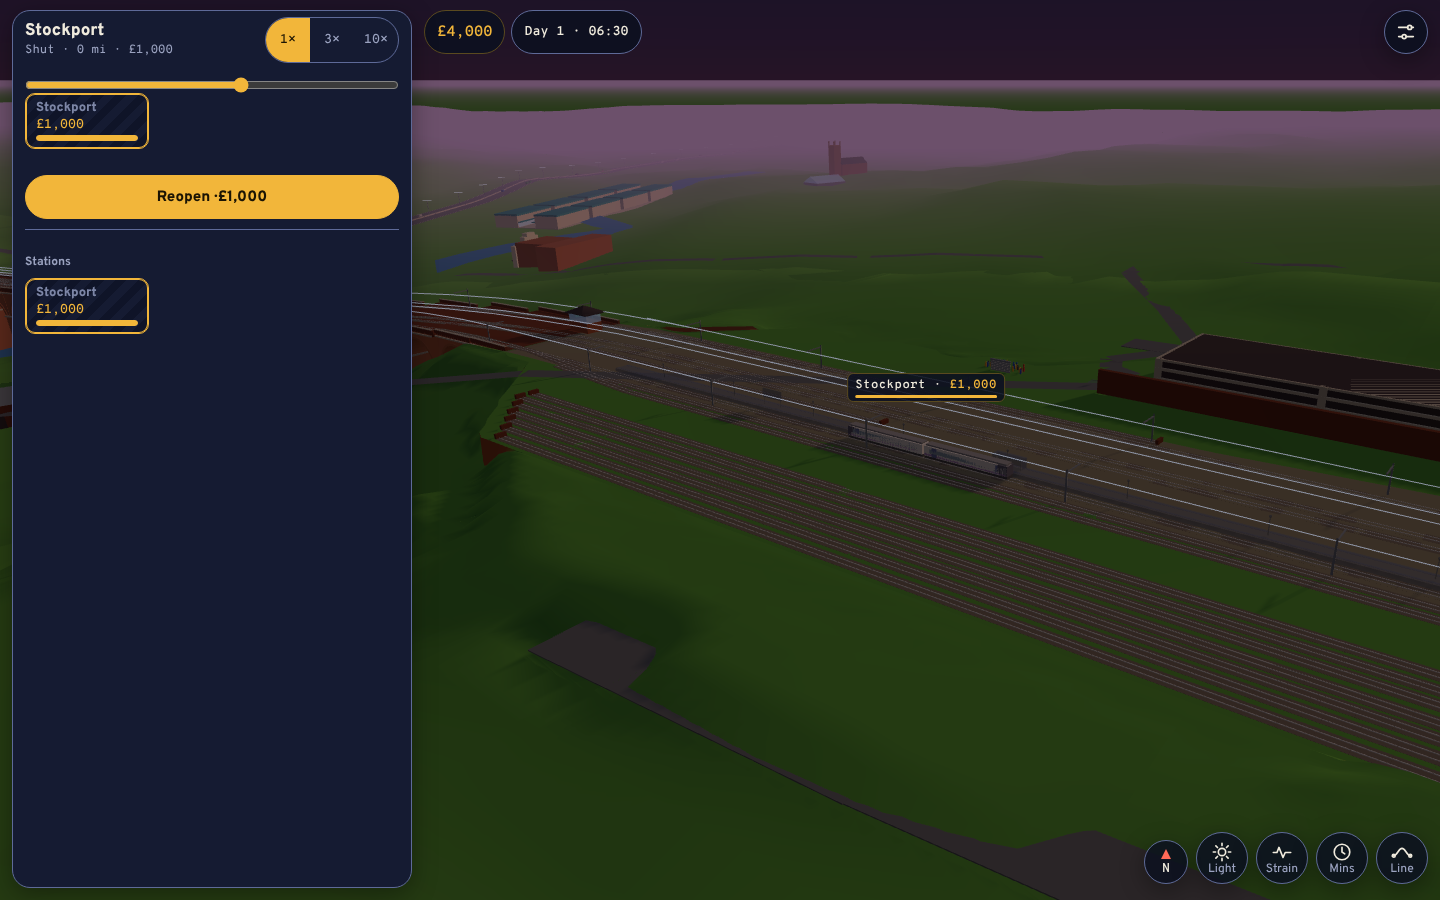
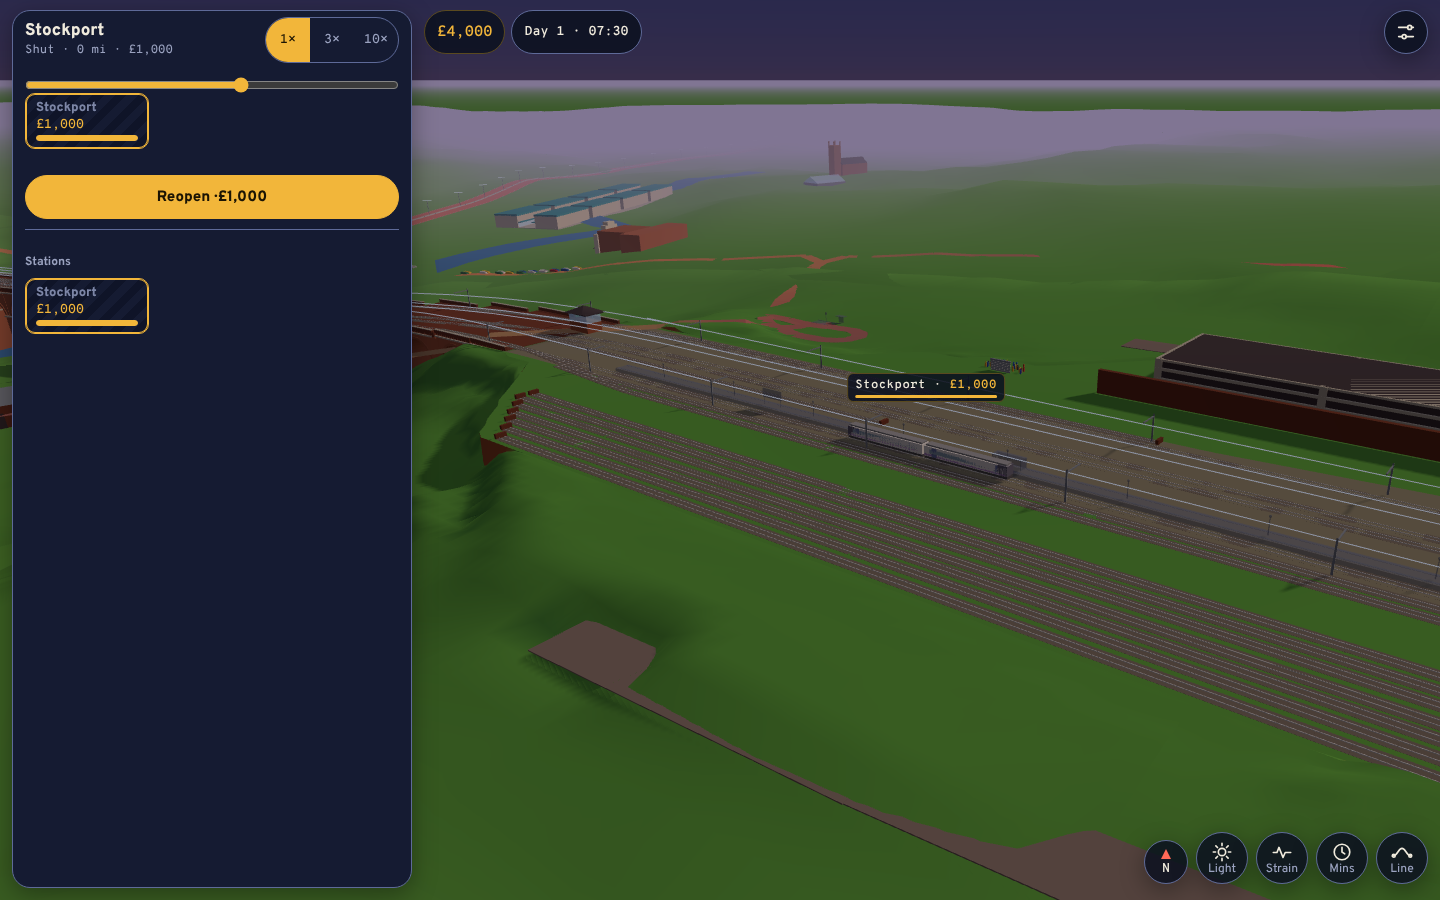
Open the first game at 07:30, in the jam
The coordinator, for the owner: at the old 06:30 start every road was
under capacity with nothing open (the A6 at 0.66), so the opening showed
moving traffic. Of the two ways offered, the start hour moving to 07:30
changes the game less than raising the roads' loads while Stockport is
shut: it is one number in the start's data, and the jam still follows
from what's open. At 07:30 the A6 at Mersey Square stands at 1.10 of its
capacity and the M60 at 1.24.

At the peak the gathered crowd is bigger, so its window comes down from
20 clock minutes to 8 (about 18 people): from 12 the first load pays for
Platform 3 at once and the second unit falls below its range. Sim.halt
stays at 06:30, the opening tests and checks start from. A test holds
the start's roads past capacity. Handed on in the brief; G4 not started.

Bot, seeds 1-3, 51d87be (before Stockport started shut) -> this. Every
range holds.

8 h:
PLAY 49758878, 32fcf737, e0d9f18d -> f4704e52, a344caf3, 99a25715
| measure | range | before (1, 2, 3) | after (1, 2, 3) | mean | band |
| --- | --- | --- | --- | --- | --- |
| first fare s | 0–40 | - | 1, 1, 1 | - -> 1 | ok |
| first buy | 0–0.05 | - | 0, 0, 0 | - -> 0 | ok |
| unit | 0.25–0.6 | 0.4, 0.4, 0.4 | 0.45, 0.45, 0.45 | 0.4 -> 0.5 | ok |
| owns:heaton-chapel | 0.5–1 | 0.57, 0.62, 0.62 | 0.6, 0.58, 0.57 | 0.6 -> 0.6 | ok |
| owns:levenshulme | 1.6–2.8 | 2.08, 2.1, 2.1 | 2.2, 2.2, 2.2 | 2.1 -> 2.2 | ok |
[…]

diff --git a/src/sim/sim.ts b/src/sim/sim.ts
@@ -30,9 +30,10 @@ export const TUNING = {
   dwell: 45, turnaround: 120, dwellMin: 30, turnMin: 60, overrun: 120,
   recoveryFast: 30,                            // the faster timetable keeps some of its saving as recovery at each end
   // a shut station reopening (docs/design/gridlock.md, section 1): the people who'd gathered outside it are those of
-  // its trips in the last `gather` clock minutes, at most gatherMax. Twenty minutes is about 26 at 06:30: the design's
-  // five were about 6, and from 25 the first load pays for Platform 3 at once and the whole opening comes 0.15 h sooner
-  gather: 20, gatherMax: 80,
+  // its trips in the last `gather` clock minutes, at most gatherMax. Eight minutes is about 18 at 07:30, the start: from
+  // twelve the first load pays for Platform 3 at once and the whole opening comes 0.2 h sooner, and five leave Heaton
+  // Chapel a tenth of an hour later on seed 1
+  gather: 8, gatherMax: 80,
   alight: 0.5,                                 // someone getting off takes half the door time of someone getting on
   squeeze: 1.0,                                // seconds a full train is held for each person left trying to get on
   dispatch: 15,                                // seconds from the platform clearing to leaving: doors shut, all clear
@@ -233,10 +234,12 @@ export class Sim {
     } as Omit<GameState, 'owned' | 'ups' | 'line'> as GameState, P);
   }
 
-  /** A new run with the start's offer already reopened and paid for (Stockport as a halt, £3,000): the opening before
-   * Stockport started shut, for tests and checks that start from there. It plays as that opening did: nothing is held. */
+  /** A new run with the start's offer already reopened and paid for (Stockport as a halt, £3,000) at 06:30 on day 1: the
+   * opening before Stockport started shut, for tests and checks that start from there. It plays as that opening did:
+   * nothing is held. */
   static halt(network: Network, seed: number = freshSeed(), perks: readonly string[] = [], start?: string): GameState {
     const g = Sim.fresh(network, seed, perks, start), P = places(network), from = P.startOf(g.start), fx = effects(network.def.contract, perks);
+    g.t = simAtHour(1, 6.5); g.day = 1; g.weather = freshWeather(seed, g.t);
     for (const id of from.offer) {
       const p = P.get(id), price = from.prices?.[id] ?? (p.kind === 'station' ? network.stations[p.station!]!.price : 0);
       g.places[id] = {}; g.cash -= fx.build ? Math.round(price * (1 - fx.build) / 10) * 10 : price;

diff --git a/test/start.test.ts b/test/start.test.ts
@@ -1,4 +1,5 @@
-// The start (docs/design/gridlock.md, sections 1, 4 and 7): a fresh game opens from the network data's first start,
+// The start (docs/design/gridlock.md, sections 1, 4 and 7): a fresh game opens from the network data's first start, at
+// 07:30 in the morning peak with the roads jammed,
 // Stockport shut: nothing owned, £4,000, Reopen Stockport the one thing offered at £1,000, the stopper standing dark
 // at platform 4 and the expresses running through. Reopening releases the stopper from there with the people who'd
 // gathered aboard, and from then on the game plays as the halt's opening did.
@@ -61,4 +62,13 @@ test('start: the same seed gives the same game, and a start named that the data 
 test('start: halt opens as the shut start reopened, cash and all', () => {
   const g = Sim.halt(net, 1);
   assert.equal(g.cash, 3000); assert.ok(g.owned[0]); assert.ok(!g.owned.slice(1).some(Boolean));
+});
+
+test('start: the first game opens in the morning peak with the roads past capacity, the jam following from nothing open', async () => {
+  const { traffic } = await import('../src/sim/traffic.ts');
+  const { TUNING } = await import('../src/sim/sim.ts');
+  const roads = JSON.parse(readFileSync(new URL('../src/data/traffic.json', import.meta.url), 'utf8'));
+  const sim = shut(), t = traffic(sim, TUNING, roads, sim.hour()), load = (id: string) => t.roads.find(r => r.id === id)!.load;
+  assert.ok(load('a6-mersey-square') > 1.05, `the A6 at Mersey Square at ${load('a6-mersey-square').toFixed(2)}`);
+  assert.ok(load('m60-j1-j2') > 1.1, `the M60 at ${load('m60-j1-j2').toFixed(2)}`);
 });

diff --git a/docs/design/gridlock.md b/docs/design/gridlock.md
@@ -203,7 +203,7 @@ Each needs only data: a start record and, for the bus start, the places step 12 
 Each part about one session, in order, each leaving `main` playable.
 
 1. **G1 · The car in the sim** (sim, data, bot, tests; nothing on screen). *Built 14 October 2026 (`docs/DESIGN.md`, The car): the stretches are in their own `src/data/traffic.json`, not the network data, so they load after the first frame; `traffic(sim, TUNING, data, hour)` takes them.* `src/sim/traffic.ts` (`wouldTravel`, `cars`, stretches, loads, queues, `traffic(sim)`, `trafficKey`); `traffic` stretches with their real counts and sources, `serves`, `through` and capacities; `carShare` and `carScale` in `TUNING`. Not read by `Sim.step`, so `PLAY` stays identical on seeds 1–3. The bot reports the new measures on today's opening (Stockport owned from the start), and the calibration lands the targets in §2. Tests: pure (two calls, same answer), a shut station's pairs all drive, reopening lowers the A6's load, queues grow past capacity and drain under it.
-2. **G2 · Stockport starts shut** (sim, data, save, bot, a little view). *Built 14 October 2026 (`docs/DESIGN.md`, The start): the gathered crowd is the last 20 clock minutes' trips, about 26, not five minutes' (about 6, too few to hold the opening's pace; from 25 minutes Platform 3 comes at once and everything 0.15 h sooner); the shutter part is `type: "shutter"`, standing while its station is shut, rather than `until: "open"`; lamps and the board stay as the fogged halt draws them; `Sim.halt` gives tests the old opening.* `starts` in the network data with the first game's record (§7), read by `Sim.fresh`: a fresh game owns nothing, £4,000; the start's `offer` (Stockport, £1,000); the stopper held at platform 4 until it's reopened, its day 1 timetable from then; the gathered crowd on reopening; `SAVE_VERSION` up. The bot reopens first; its run on seeds 1–3 against `main`, a table in the commit message, baselines re-proposed only if a range breaks. View: Reopen on a station's card and button; Stockport's shutter part (`until: "open"`), lamps and board off, the forecourt crowd; checks `preview`, `places` and the opening's screenshots updated.
+2. **G2 · Stockport starts shut** (sim, data, save, bot, a little view). *Built 14 October 2026 (`docs/DESIGN.md`, The start): the first game starts at 07:30, not 06:30, so the opening is jammed from the first frame (with nothing open the A6 is at 0.66 at 06:30, 1.10 at 07:30, the M60 1.24); the gathered crowd is the last 8 clock minutes' trips, about 18 (from 12 minutes Platform 3 comes at once and everything 0.2 h sooner); the shutter part is `type: "shutter"`, standing while its station is shut, rather than `until: "open"`; lamps and the board stay as the fogged halt draws them; `Sim.halt` gives tests the old 06:30 opening.* `starts` in the network data with the first game's record (§7), read by `Sim.fresh`: a fresh game owns nothing, £4,000; the start's `offer` (Stockport, £1,000); the stopper held at platform 4 until it's reopened, its day 1 timetable from then; the gathered crowd on reopening; `SAVE_VERSION` up. The bot reopens first; its run on seeds 1–3 against `main`, a table in the commit message, baselines re-proposed only if a range breaks. View: Reopen on a station's card and button; Stockport's shutter part (`until: "open"`), lamps and board off, the forecourt crowd; checks `preview`, `places` and the opening's screenshots updated.
 3. **G3 · Gridlock on the map** (view). *Built 14 October 2026 (`docs/DESIGN.md`, The car, On the map), to today's 450,000-triangle opening: 14 triangles a car rather than 10, for the cabin's rake; no default wash in the first frame's script (the ground's cover itself comes after the first frame); the stretches laid on the stand-in roads between points from memory until step 8; the A5145 and the A57 not drawn yet, having no road.* `src/render/traffic.ts` in a chunk after the first frame: instanced cars on `roads` and the M60's course, queues from each junction point, brake lights, the 300-car cap (120 on Low); the congestion texture and the wash in the cover patch; `--map-car-*`, `--map-brake`, `--map-jam-1`, `--map-jam-2` tokens; the wash's default for the first frame. Checks: `perf` (the opening inside 450,000 triangles and 450 KB), a `traffic` group (the opening's jam drawn, a bought main line's roads cooler, nothing drawn changes `PLAY`, reduced motion).
 4. **G4 · The road card and the score** (view). Road stretches as places that open a card (tap the traffic); the Network card's score and sparkline; Strain's traffic row as the wash drawn stronger; the car park's card line. Checks: `places` (a road's card at 320 px), `strain`.
 5. **G5 · The jam pushes back** (sim, balance; only if the owner wants it, open question 3). The car's felt time (the stretches' drive at their speed, the queue, the parking) joins the journeys as the rival: a trip's reach rises when the car is slow and falls as the roads clear. The bot before and after, the baselines re-proposed with the owner.

diff --git a/docs/DESIGN.md b/docs/DESIGN.md
@@ -6,7 +6,7 @@ Passengers are the resource. Each owned station generates trips to every station
 
 ## The start
 
-A game opens from a **start** (`starts` in the network data, `docs/design/gridlock.md` §1, §4 and §7): the first is the first game's and the default, and nothing about the opening is in code. Today's start is gridlocked Stockport: 06:30 on day 1, £4,000, nothing owned (`open` is empty), nothing local running. With no station owned the only place offered is the start's `offer`, Reopen Stockport, at the start's own price (`prices`, £1,000 against the data's 0); once it's bought its neighbours are offered as ever. The stopper stands dark at Stockport's platform 4 (`held`: route to station) and isn't the player's until Stockport reopens; the expresses run through without calling at a shut station. Reopening (`Sim.buy`, then `release`) gives the opening the halt had (Stockport a halt, £3,000), except that the stopper starts from platform 4 at once instead of from mid-line, with the people who'd gathered outside on the platform: Stockport's trips in the last 20 clock minutes, about 26 at 06:30, at most 80 (`gather`, `gatherMax`; the design's five minutes were about 6, and from 25 minutes the first load pays for Platform 3 at once and the whole opening comes 0.15 h sooner). So the first fare comes a real second after the tap instead of 220 seconds in. `Sim.fresh(net, seed, perks, start?)` reads a start, the save records its id (`start`), and `Sim.halt` is a fresh run with the offer already reopened, the opening before Stockport started shut, for tests and checks that start there. On the map, Stockport's `shutter` part (a roller shutter across the Station Road way in, never fogged) stands while it's shut, with a crowd of up to 30 gathering outside it from 06:00, and rolls up as it reopens (at once with reduced motion; `buildShutter` in `src/render/life.ts`). Every station's button says Reopen, and a station not owned is Shut on its card.
+A game opens from a **start** (`starts` in the network data, `docs/design/gridlock.md` §1, §4 and §7): the first is the first game's and the default, and nothing about the opening is in code. Today's start is gridlocked Stockport: 07:30 on day 1, in the morning peak, £4,000, nothing owned (`open` is empty), nothing local running. With no station owned the only place offered is the start's `offer`, Reopen Stockport, at the start's own price (`prices`, £1,000 against the data's 0); once it's bought its neighbours are offered as ever. The stopper stands dark at Stockport's platform 4 (`held`: route to station) and isn't the player's until Stockport reopens; the expresses run through without calling at a shut station. Reopening (`Sim.buy`, then `release`) gives the opening the halt had (Stockport a halt, £3,000), except that the stopper starts from platform 4 at once instead of from mid-line, with the people who'd gathered outside on the platform: Stockport's trips in the last 8 clock minutes, about 18 at 07:30, at most 80 (`gather`, `gatherMax`; from 12 minutes the first load pays for Platform 3 at once and the whole opening comes 0.2 h sooner). So the first fare comes a real second after the tap instead of 220 seconds in. The start is at 07:30 rather than the design's 06:30 so the opening is jammed from the first frame: with nothing open every trip drives, and at 07:30 the A6 at Mersey Square stands at 1.10 of its capacity and the M60 at 1.24 (at 06:30, 0.66 and 0.81, moving). The jam is never authored; only the hour moved, as data. `Sim.fresh(net, seed, perks, start?)` reads a start, the save records its id (`start`), and `Sim.halt` is a fresh run with the offer already reopened at 06:30, the opening before Stockport started shut, for tests and checks that start there. On the map, Stockport's `shutter` part (a roller shutter across the Station Road way in, never fogged) stands while it's shut, with a crowd of up to 30 gathering outside it from 06:00, and rolls up as it reopens (at once with reduced motion; `buildShutter` in `src/render/life.ts`). Every station's button says Reopen, and a station not owned is Shut on its card.
 
 ## Places
 

diff --git a/docs/briefs/gridlock-build.md b/docs/briefs/gridlock-build.md
@@ -67,3 +67,14 @@ The owner has said not to wait on them: take the option the design and the decis
 ## Cost budget
 
 About $30 a part. At about 450k of context, stop at the end of a part and add a "## Handed on" section here.
+
+## Handed on
+
+G2 is built (14 October 2026: `docs/DESIGN.md`, The start). G4 hasn't been started: the owner paused development after G2.
+
+- **Where it stands.** A fresh game opens from `starts[0]` in the network data at 07:30 on day 1, with nothing open and £4,000. The one thing offered is Reopen Stockport for £1,000. The start is 07:30, not the design's 06:30, so the opening is jammed from the first frame. At 06:30 the roads were under capacity with nothing open (A6 0.66). At 07:30 the A6 at Mersey Square is at 1.10 and the M60 at 1.24. Only the hour moved; the jam isn't authored.
+- **Reopening** releases the stopper from platform 4 with the last 8 clock minutes' trips aboard (about 18, `TUNING.gather`). The first fare comes a real second after the tap. On the bot, seeds 1–3, every 8 h and 16 h range holds. Platform 3 comes at 0.22 h (0.17 before), the second unit at 0.45 (0.4), and Heaton Chapel at 0.57–0.6 (as before). The gather window has a cliff: from 12 minutes the first load pays for Platform 3 at once, and the second unit drops below its range.
+- **Tests and checks** that start from the old opening use `Sim.halt`: Stockport reopened as a halt at 06:30 with £3,000, which plays exactly as before. The traffic check (G3's) uses it too.
+- **Not done in G2:** the held stopper isn't drawn dark, and Stockport's lamps and board stay as the fogged halt draws them. The shutter part stands on the grass by the taxi rank's door, placed by eye, since the booking hall it would sit in comes later. The map pill still reads "Stockport · £1,000", not "Reopen · £1,000".
+- **Checks not run here in full.** On this container the desktop pages of the contract, life and reach groups time out under load; their phone pages pass. The "Check main" workflow is the judge.
+- **Next:** G4, the road card and the score (`docs/design/gridlock.md` §6, The road card): road stretches as places with a card, the Network card's cars-off score and sparkline, Strain's traffic row and the car park's card line. Then G5 (roadmap step 20).

diff --git a/docs/design/buying.md b/docs/design/buying.md
@@ -137,7 +137,7 @@ Nothing is dropped. The kiosk is the one stage folded, and two stages wait on a 
 
 ## 5. The opening
 
-Replaced by `docs/design/gridlock.md` §1 (built 14 October 2026, part G2): Stockport starts shut at 06:30 on day 1 with £4,000, and the one thing offered is Reopen Stockport for £1,000. Reopening gives what this section used to describe, Stockport as a halt with £3,000, the stopper starting from platform 4 at once with the people who'd gathered aboard. From there the opening plays as before:
+Replaced by `docs/design/gridlock.md` §1 (built 14 October 2026, part G2): Stockport starts shut at 07:30 on day 1, in the morning peak, with £4,000, and the one thing offered is Reopen Stockport for £1,000. Reopening gives what this section used to describe, Stockport as a halt with £3,000, the stopper starting from platform 4 at once with the people who'd gathered aboard. From there the opening plays as before:
 
 - **On Stockport's card:** four stages, one from each ladder: Subway £2,000, Booking hall £4,500, Canopy £2,500, Taxi rank on Station Road £1,200.
 - **On the map, in the fog:** Heaton Chapel £9,000 up the line, Davenport £80,000 down the Hazel Grove line (waits on platforms 0, 1 and 2), and Stockport Interchange £50,000 by the station.
